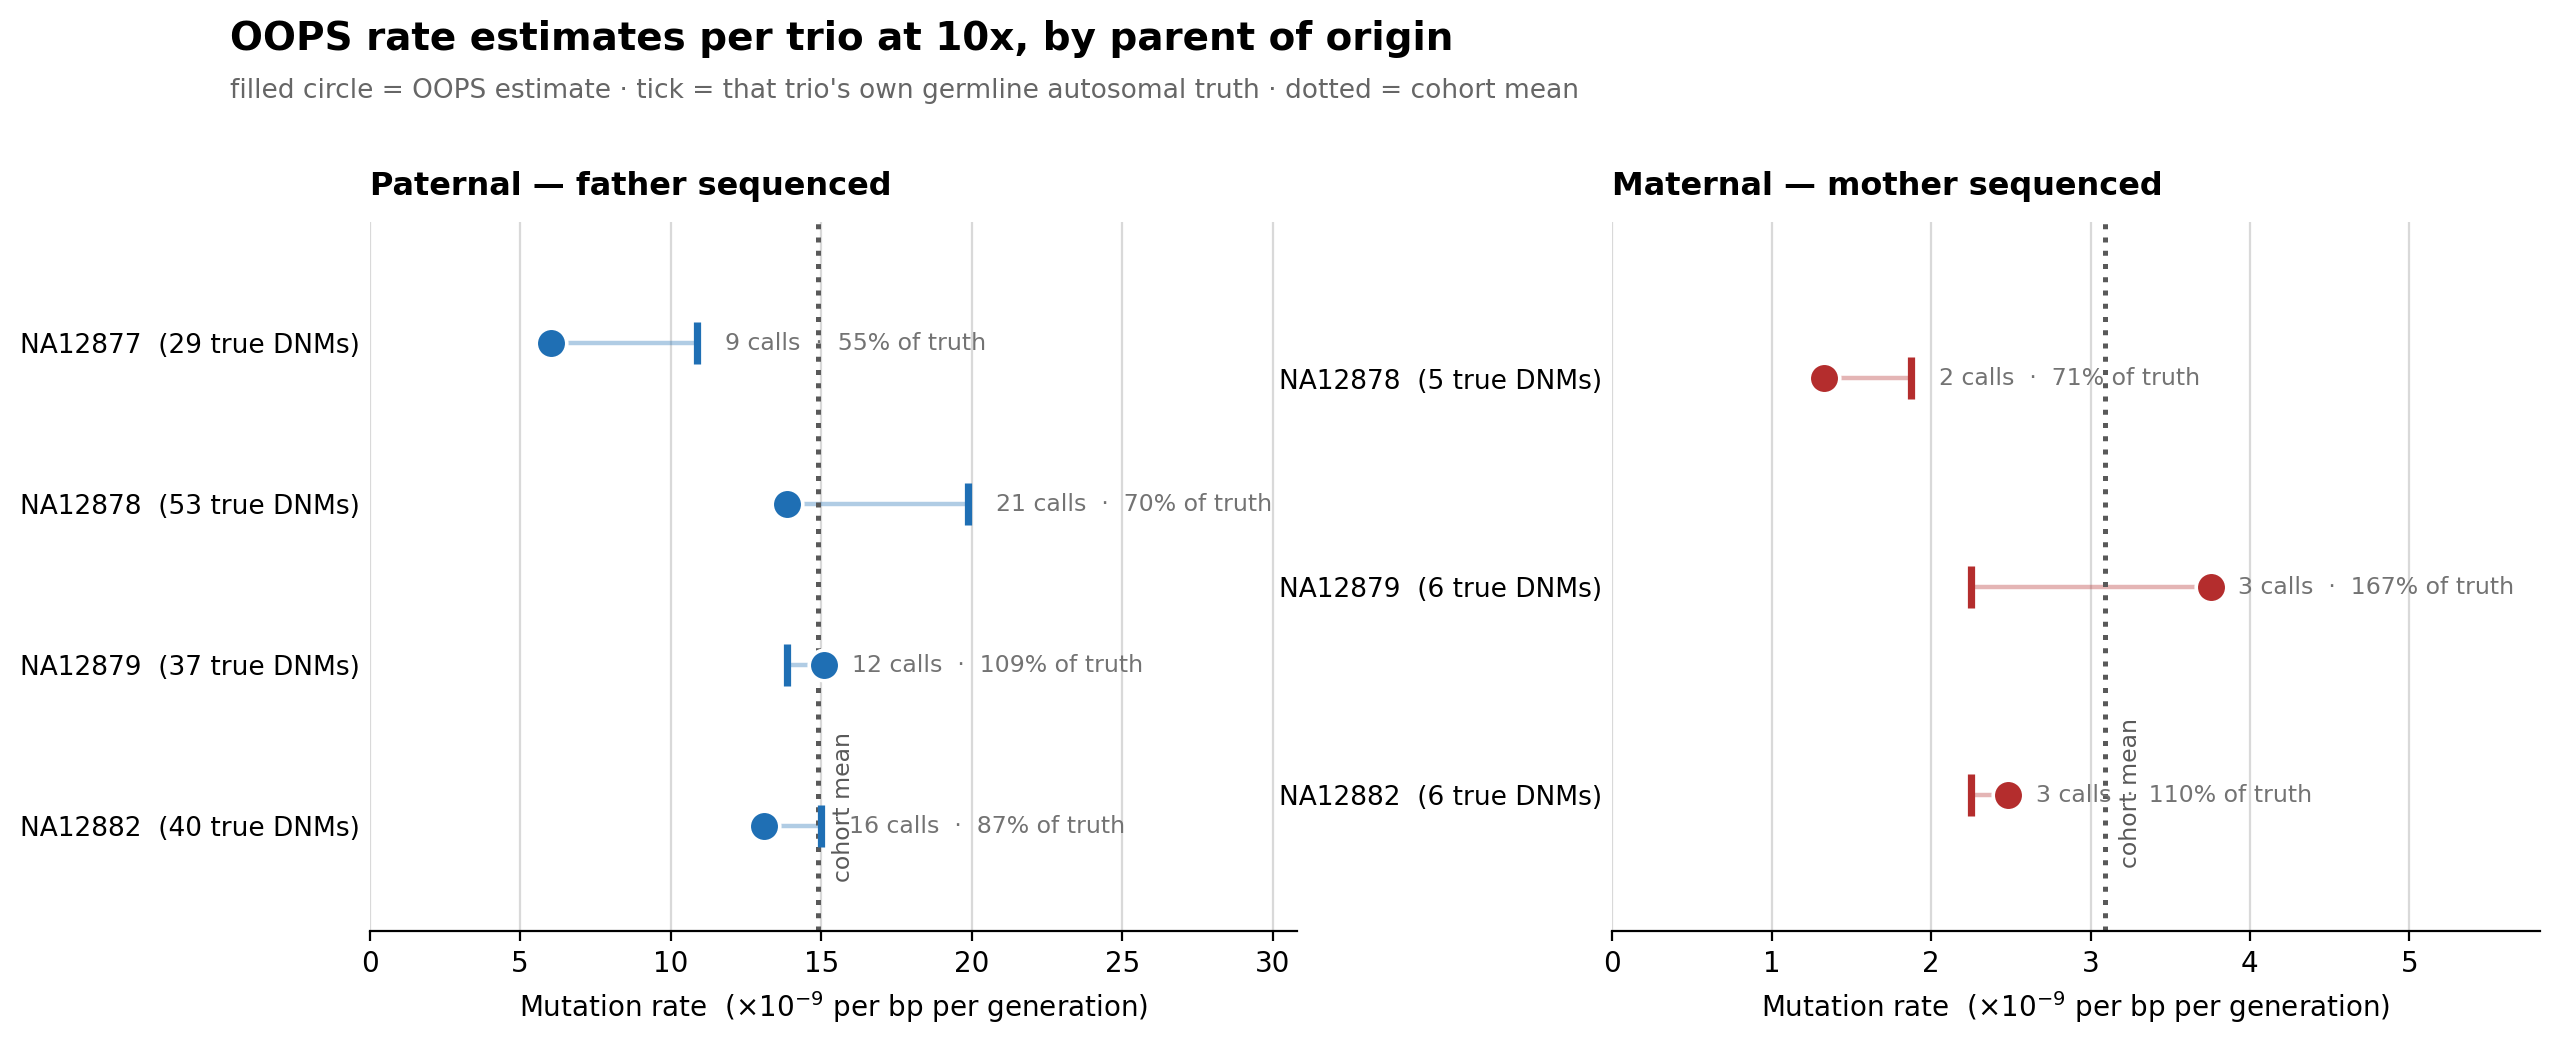
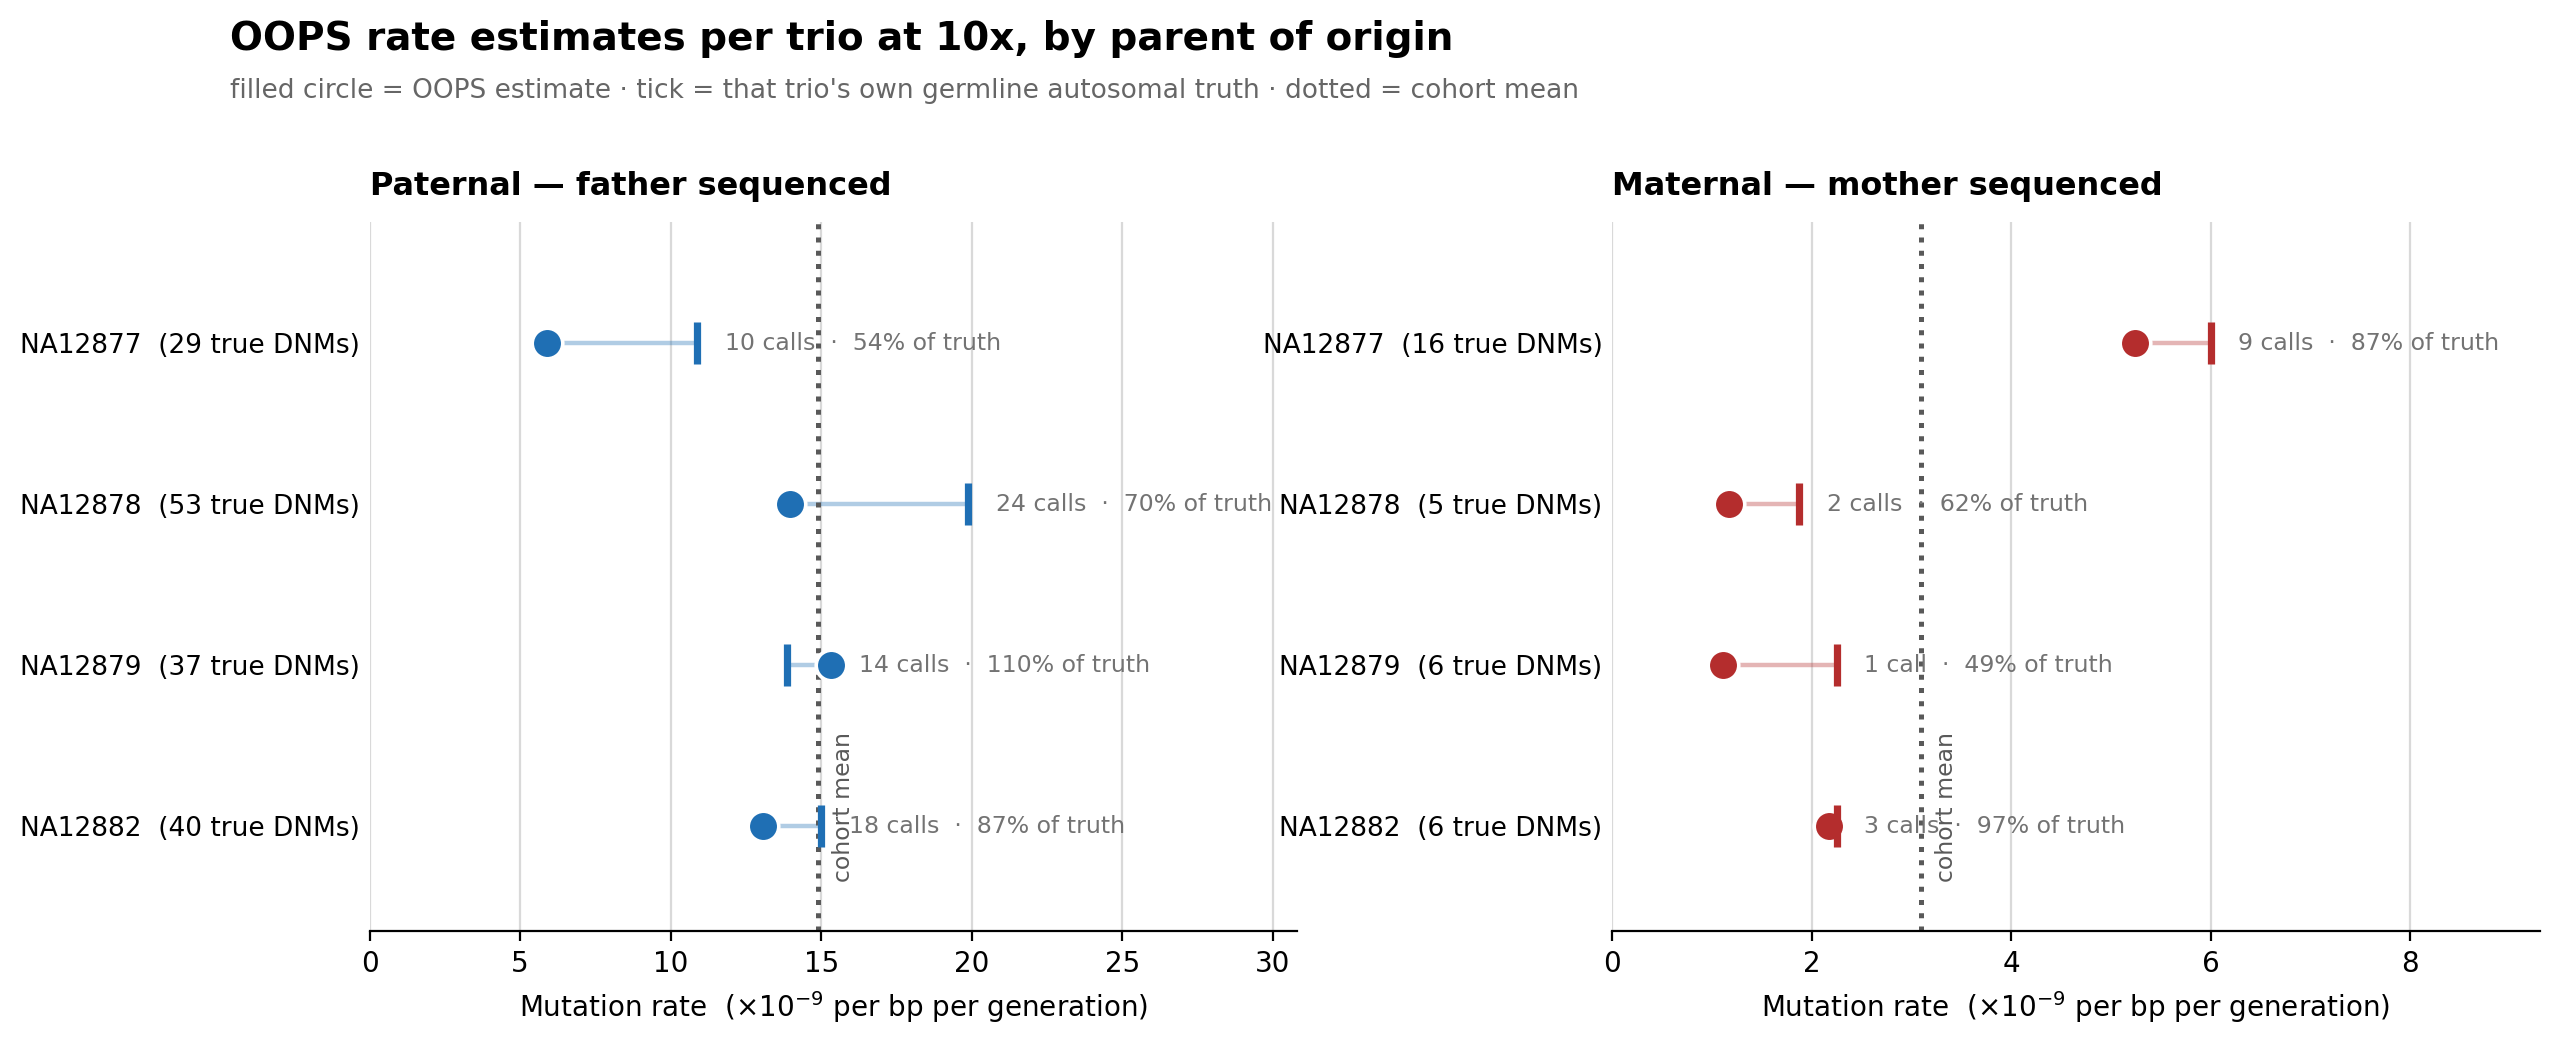
Drop stale runs from the rate figures, add the 5x paternal point, rescale to 1e-8
plot_oops_rates.py now refuses to plot a run whose results predate its own
inputs. OOPS_Pacbio_20x_79_78 had a final call set written 08-11 and a child
BAM copied in on 08-14, so its numbers describe a BAM that is no longer there.
It had been showing up as the one bump in an otherwise flat maternal series.
is_stale() compares the final_dnmc mtime against the newest BAM in the run's
bam/ directory; --keep-stale-runs overrides. Byte-identical runs are dropped
the same way via --keep-duplicate-runs.

Figure 1 changes:
- y axis in units of 1e-8 rather than 1e-9, matching how these rates are
  usually quoted
- picks up the new 5x paternal run (NA12879 from NA12877): 9 calls, 9 TP,
  rate 1.505e-08 against a 1.387e-08 truth

With 20x gone the maternal series is monotone and the paternal series sits
within 11% of truth across 5x-37x.

Also restores two lines that had drifted: the callable-genome panel divided by
1e8 instead of 1e9, and height_ratios had gone from [3.2, 1] to [1, 1], which
let the lower panel dominate the figure.

diff --git a/src/plot_oops_rates.py b/src/plot_oops_rates.py
@@ -149,7 +149,8 @@ def collect_runs(roots, platform_filter):
                 rate=n_dnm / callable_bp,
                 rate_lo=lo / callable_bp, rate_hi=hi / callable_bp,
                 fingerprint=fingerprint,
-                mtime=os.path.getmtime(final[0])))
+                mtime=os.path.getmtime(final[0]),
+                stale=is_stale(d, final[0])))
 
     df = pd.DataFrame(rows)
     if df.empty:
@@ -187,6 +188,19 @@ def dedupe_cells(df):
             dropped.append((df.run[i], df.root[i], df.run[g.index[-1]]))
     out = df.loc[sorted(keep)].reset_index(drop=True)
     return out, dropped
+
+
+def is_stale(run_dir, final_path):
+    """True if the call set is older than the child BAM it claims to describe.
+
+    A run whose inputs were replaced after its results were written was never
+    computed from those inputs, so its numbers belong to whatever BAM used to
+    be there. That is not a measurement of this depth.
+    """
+    bams = glob.glob(os.path.join(run_dir, "bam", "*.bam"))
+    if not bams:
+        return False
+    return os.path.getmtime(final_path) < max(os.path.getmtime(b) for b in bams)
 
 
 def read_qualified(run_dir):
@@ -243,11 +257,11 @@ def figure_depth(df, per_child, cohort, n_per_child, child, out_path,
               file=sys.stderr)
         return None
     sub = sub.sort_values("coverage")
-    U = 1e-9                                  # plot in units of 1e-9 /bp/gen
+    U = 1e-8                                  # plot in units of 1e-8 /bp/gen
 
     fig, (ax, axn) = plt.subplots(
         2, 1, figsize=(11, 7.6), sharex=True,
-        gridspec_kw=dict(height_ratios=[3.2, 1], hspace=0.10))
+        gridspec_kw=dict(height_ratios=[1, 1], hspace=0.10))
 
     covs = sorted(sub.coverage.unique())
     x_of = {c: i for i, c in enumerate(covs)}
@@ -297,7 +311,7 @@ def figure_depth(df, per_child, cohort, n_per_child, child, out_path,
         axn.plot(x, s_.callable_bp / 1e9, color=color, lw=2.0, marker=marker,
                  ms=7, mec="white", mew=1.2, alpha=0.9)
 
-    ax.set_ylabel("Mutation rate  ($\\times 10^{-9}$ per bp per generation)",
+    ax.set_ylabel("Mutation rate  ($\\times 10^{-8}$ per bp per generation)",
                   fontsize=11)
     ax.set_ylim(bottom=0)
     ax.margins(x=0.04)
@@ -334,10 +348,10 @@ def figure_depth(df, per_child, cohort, n_per_child, child, out_path,
 
     ax.set_title(f"OOPS mutation-rate estimate vs read depth — child {child}",
                  fontsize=14, fontweight="bold", loc="left", pad=26)
-    ax.text(0, 1.045,
-            "bold numbers = DNMs called at that depth · the callable genome "
-            "(lower panel) moves with them, so the ratio stays near truth",
-            transform=ax.transAxes, fontsize=9.5, color="0.4", va="bottom")
+    # ax.text(0, 1.045,
+    #         "bold numbers = DNMs called at that depth · the callable genome "
+    #         "(lower panel) moves with them, so the ratio stays near truth",
+    #         transform=ax.transAxes, fontsize=9.5, color="0.4", va="bottom")
 
     fig.savefig(out_path, dpi=200, bbox_inches="tight")
     plt.close(fig)
@@ -457,6 +471,13 @@ def main():
     ap.add_argument("--highlight-depth", type=int, default=10)
     ap.add_argument("--trio-coverage", type=int, default=10,
                     help="coverage to show in the per-trio figure (default 10x)")
+    ap.add_argument("--keep-stale-runs", action="store_true",
+                    help="keep runs whose results are older than their own input "
+                         "BAM (default: drop them)")
+    ap.add_argument("--keep-duplicate-runs", action="store_true",
+                    help="keep runs whose outputs are byte-identical to another "
+                         "run's (default: drop them -- a re-submitted chain that "
+                         "never rewrote its outputs is not a second measurement)")
     ap.add_argument("--keep-duplicate-cells", action="store_true",
                     help="plot every run, even when two runs share the same "
                          "child/sex/coverage (default: keep only the newest)")
@@ -469,6 +490,19 @@ def main():
     df = collect_runs(roots, args.platform)
     if df.empty:
         sys.exit("No completed runs found.")
+
+    if not args.keep_stale_runs:
+        for _, r in df[df.stale].iterrows():
+            print(f"  drop {r.run}: results predate the child BAM in that run "
+                  f"directory, so they were not computed from it", file=sys.stderr)
+        df = df[~df.stale].reset_index(drop=True)
+
+    if not args.keep_duplicate_runs:
+        dup = df[df.is_duplicate]
+        for _, r in dup.iterrows():
+            print(f"  drop {r.run}: outputs byte-identical to {r.duplicate_of}, "
+                  f"not an independent measurement", file=sys.stderr)
+        df = df[~df.is_duplicate].reset_index(drop=True)
 
     if not args.keep_duplicate_cells:
         df, dropped = dedupe_cells(df)
